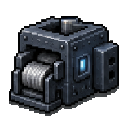
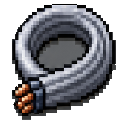
Update factory floor connector visuals

diff --git a/src/App.css b/src/App.css
@@ -8313,10 +8313,109 @@ button.button-primary:disabled,
   stroke-dasharray: 5 5;
 }
 
+.machine-connector-glyph {
+  --connector-dark: #21130d;
+  --connector-mid: #b86c3c;
+  --connector-light: #f4ba7a;
+  --connector-core: #ffe0a2;
+}
+
+.machine-bronzePipe.machine-connector-glyph {
+  --connector-dark: #3f2917;
+  --connector-mid: #b7854c;
+  --connector-light: #e8c779;
+  --connector-core: #ffe6a0;
+}
+
+.machine-ironPipe.machine-connector-glyph {
+  --connector-dark: #2a3032;
+  --connector-mid: #9aa4a7;
+  --connector-light: #e3e9ea;
+  --connector-core: #f7fbfb;
+}
+
+.machine-tinCable.machine-connector-glyph {
+  --connector-dark: #080a0c;
+  --connector-mid: #252a2d;
+  --connector-light: #ffe58a;
+  --connector-core: #ffd34f;
+}
+
+.machine-connector-glyph .pipe-svg path {
+  fill: none;
+  stroke-linecap: square;
+  stroke-linejoin: round;
+}
+
+.machine-connector-glyph .pipe-shadow {
+  opacity: 0.42;
+  stroke: #000;
+  stroke-width: 18;
+  transform: translate(2px, 3px);
+}
+
+.machine-connector-glyph .pipe-outline {
+  stroke: var(--connector-dark);
+  stroke-width: 17;
+}
+
+.machine-connector-glyph .pipe-body {
+  stroke: var(--connector-mid);
+  stroke-width: 12;
+}
+
+.machine-connector-glyph .pipe-core {
+  opacity: 0.95;
+  stroke: var(--connector-core);
+  stroke-width: 6;
+}
+
+.machine-connector-glyph .pipe-highlight {
+  opacity: 0.9;
+  stroke: var(--connector-light);
+  stroke-dasharray: 7 6;
+  stroke-width: 3;
+  transform: translate(-2px, -2px);
+}
+
+.machine-connector-glyph .pipe-coupling,
+.machine-connector-glyph .pipe-cap {
+  fill: var(--connector-mid);
+  stroke: var(--connector-dark);
+  stroke-width: 4;
+}
+
+.machine-connector-glyph .pipe-coupling {
+  filter: drop-shadow(2px 3px 0 rgba(0, 0, 0, 0.38));
+}
+
+.machine-tinCable.machine-connector-glyph .pipe-body {
+  stroke: var(--connector-mid);
+  stroke-dasharray: none;
+}
+
+.machine-tinCable.machine-connector-glyph .pipe-core {
+  stroke: var(--connector-core);
+  stroke-dasharray: 9 5;
+  stroke-width: 7;
+}
+
+.machine-tinCable.machine-connector-glyph .pipe-highlight {
+  stroke: #fff3b0;
+  stroke-dasharray: 5 7;
+}
+
+.machine-tinCable.machine-connector-glyph .pipe-coupling,
+.machine-tinCable.machine-connector-glyph .pipe-cap {
+  fill: #3b4144;
+  stroke: #07090b;
+}
+
 .machine-connector-glyph.active .pipe-body {
   filter: drop-shadow(0 0 3px rgba(255, 217, 106, 0.55));
 }
 
+.machine-connector-glyph.active .pipe-core,
 .machine-tinCable.machine-connector-glyph.active .pipe-body {
   filter: drop-shadow(0 0 4px rgba(255, 232, 132, 0.72));
 }

diff --git a/src/components/GameIcons.tsx b/src/components/GameIcons.tsx
@@ -66,6 +66,16 @@ function pipePath(connections?: PipeConnections) {
   ].filter(Boolean).join(' ')
 }
 
+function pipeCapPoints(connections?: PipeConnections) {
+  const pipeConnections = connections ?? { up: false, right: true, down: false, left: true }
+  return [
+    pipeConnections.up ? { x: 20, y: 0 } : null,
+    pipeConnections.right ? { x: 40, y: 20 } : null,
+    pipeConnections.down ? { x: 20, y: 40 } : null,
+    pipeConnections.left ? { x: 0, y: 20 } : null,
+  ].filter((point): point is { x: number; y: number } => Boolean(point))
+}
+
 export function MachineGlyph({ id, active = false, pipeConnections }: { id: MachineId; active?: boolean; pipeConnections?: PipeConnections }) {
   const isConnector = isSteamPipeMachine(id) || isEuCableMachine(id)
   const className = [
@@ -77,12 +87,19 @@ export function MachineGlyph({ id, active = false, pipeConnections }: { id: Mach
   ].filter(Boolean).join(' ')
   if (isConnector && pipeConnections) {
     const path = pipePath(pipeConnections)
+    const capPoints = pipeCapPoints(pipeConnections)
     return (
       <span className={className} aria-hidden="true">
         <svg className="pipe-svg" viewBox="0 0 40 40" focusable="false">
+          <path className="pipe-shadow" d={path} />
           <path className="pipe-outline" d={path} />
           <path className="pipe-body" d={path} />
+          <path className="pipe-core" d={path} />
           <path className="pipe-highlight" d={path} />
+          <circle className="pipe-coupling" cx="20" cy="20" r="7" />
+          {capPoints.map((point) => (
+            <circle className="pipe-cap" cx={point.x} cy={point.y} r="7" key={`${point.x}-${point.y}`} />
+          ))}
         </svg>
       </span>
     )